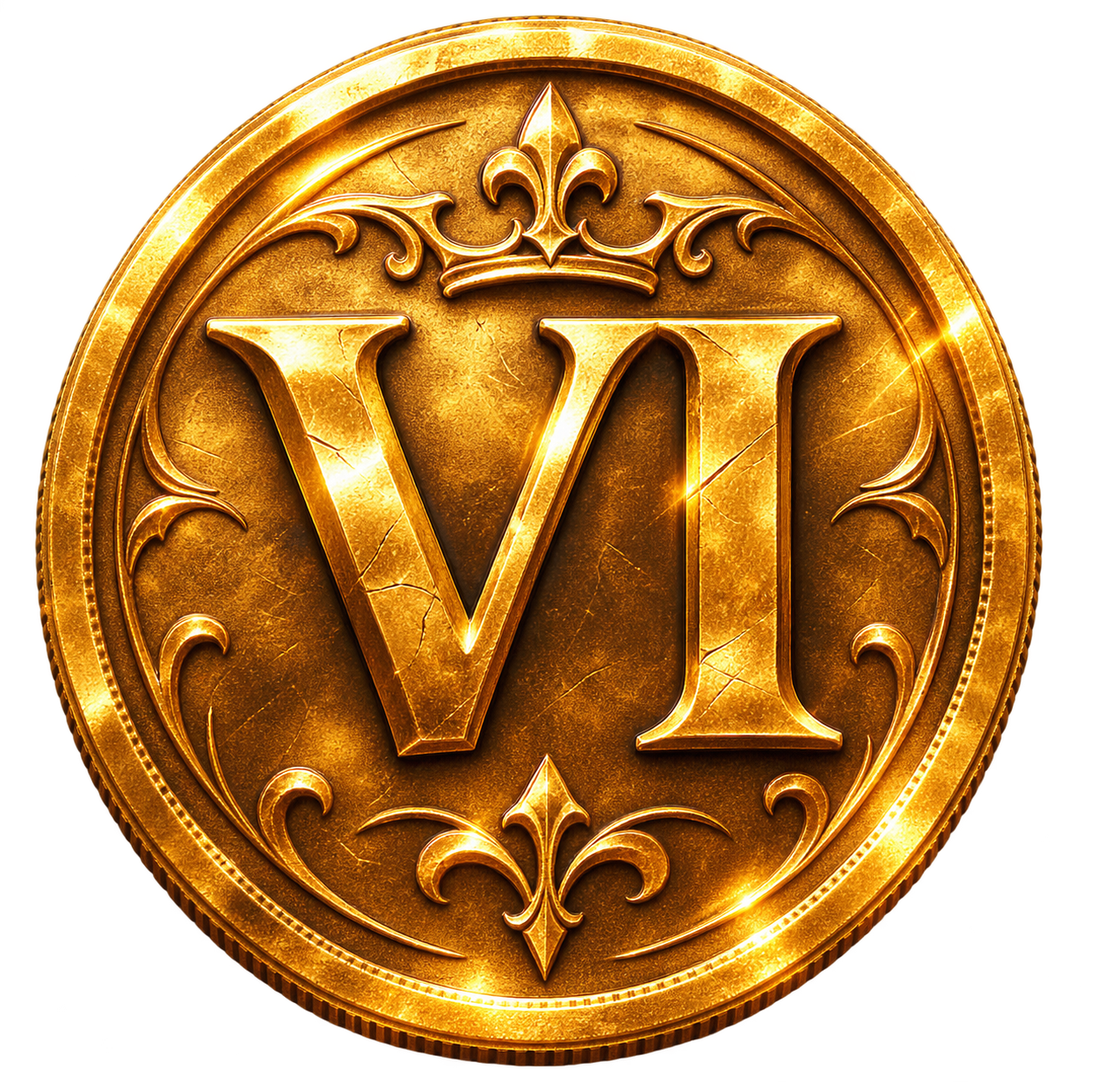
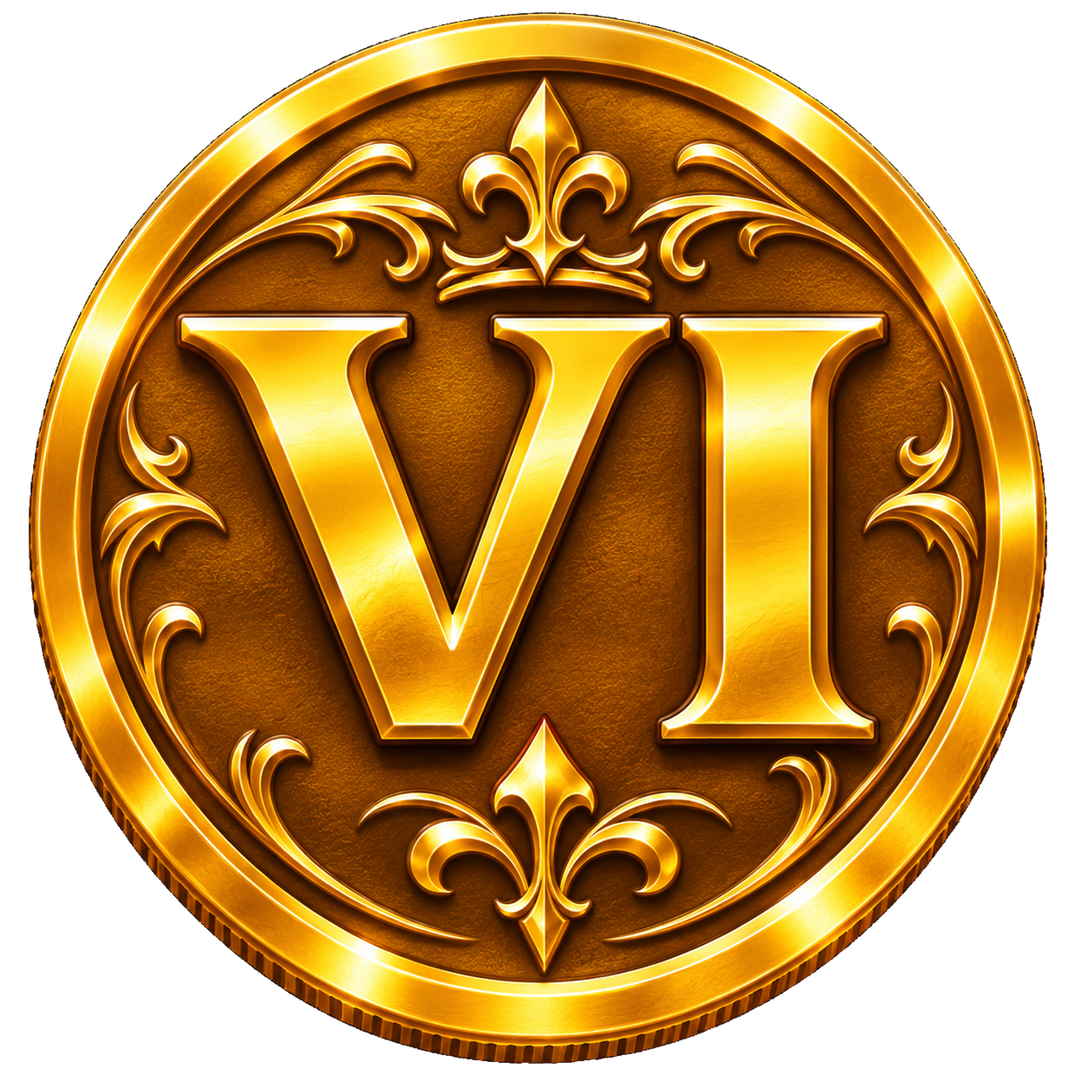
att

diff --git a/index.html b/index.html
@@ -27,6 +27,8 @@
   <link rel="stylesheet" href="redemption-flow.css">
   <link rel="stylesheet" href="brand.css">
   <link rel="stylesheet" href="forum.css">
+  <!-- Tema natalino temporário: remova este link e holiday.css ao fim da temporada. -->
+  <link rel="stylesheet" href="holiday.css">
 </head>
 <body class="catalog-home">
   <div class="app-shell">
@@ -46,7 +48,7 @@
       <div class="sidebar-login-area" id="sidebarLoginArea"><a class="twitch-login" id="twitchLogin" href="/auth/twitch/start"><span class="twitch-mark" aria-hidden="true">◉</span><span>Entrar com Twitch</span></a><span class="twitch-auth-feedback" id="twitchAuthFeedback" aria-live="polite"></span></div>
       <section class="sidebar-user-profile hidden" id="sidebarUserProfile" aria-label="Perfil da Twitch">
         <div class="sidebar-user-heading"><img id="sidebarUserAvatar" alt=""><span><button class="sidebar-user-open-profile" id="sidebarUserOpenProfile" type="button" aria-label="Abrir meu perfil"><strong id="sidebarUserName"></strong><span aria-hidden="true">↗</span></button></span></div>
-        <a class="vicoins-balance sidebar-vicoins" id="sidebarVicoinsLink" href="#lojinha" data-page="lojinha" title="Vicoins" aria-label="Vicoins: 0. Abrir lojinha"><img src="assets/vicoins-coin.png" alt=""><span id="sidebarVicoinsCount">0</span></a>
+        <a class="vicoins-balance sidebar-vicoins" id="sidebarVicoinsLink" href="#lojinha" data-page="lojinha" title="Vicoins" aria-label="Vicoins: 0. Abrir lojinha"><img src="assets/vicoins-coin.png?v=2" alt=""><span id="sidebarVicoinsCount">0</span></a>
         <span class="sidebar-user-role" id="sidebarUserRole"></span>
         <button class="sidebar-user-logout" id="sidebarUserLogout" type="button">Sair da conta</button>
       </section>
@@ -188,7 +190,7 @@
       </main>
       <main class="shop-page hidden" id="lojinha" aria-labelledby="shopHeading">
         <header class="shop-intro"><span class="eyebrow muted">RECOMPENSAS DA COMUNIDADE</span><h1 id="shopHeading">Lojinha</h1><p>Troque seus Vicoins por recompensas especiais do Vimessias Play.</p></header>
-        <div class="shop-wallet-row"><section class="shop-wallet" aria-label="Seu saldo de Vicoins"><img src="assets/vicoins-coin.png" alt="Moeda Vicoins"><div><span>SEU SALDO</span><strong id="shopVicoinsCount">0</strong><small>Vicoins</small></div></section><section class="shop-daily-claim" aria-label="Bônus diário de login"><span class="shop-daily-kicker">BÔNUS DE LOGIN</span><strong>+20 Vicoins</strong><p id="dailyVicoinsTimer" aria-live="polite">Entre com a Twitch para liberar</p><button type="button" id="claimDailyVicoins">Resgatar</button></section><section class="shop-vicoins-guide" aria-labelledby="shopVicoinsGuideHeading"><h2 id="shopVicoinsGuideHeading">Como ganhar Vicoins</h2><table><thead><tr><th>Ação</th><th>Ganho</th></tr></thead><tbody><tr><td>Favoritar um título <small>(uma vez por título)</small></td><td>+1</td></tr><tr><td>Avaliar um título <small>(uma vez por título)</small></td><td>+1</td></tr><tr><td>A cada R$ 5 em resgates pagos e aprovados</td><td>+20</td></tr></tbody></table></section></div>
+        <div class="shop-wallet-row"><section class="shop-wallet" aria-label="Seu saldo de Vicoins"><img src="assets/vicoins-coin.png?v=2" alt="Moeda Vicoins"><div><span>SEU SALDO</span><strong id="shopVicoinsCount">0</strong><small>Vicoins</small></div></section><section class="shop-daily-claim" aria-label="Bônus diário de login"><span class="shop-daily-kicker">BÔNUS DE LOGIN</span><strong>+20 Vicoins</strong><p id="dailyVicoinsTimer" aria-live="polite">Entre com a Twitch para liberar</p><button type="button" id="claimDailyVicoins">Resgatar</button></section><section class="shop-vicoins-guide" aria-labelledby="shopVicoinsGuideHeading"><h2 id="shopVicoinsGuideHeading">Como ganhar Vicoins</h2><table><thead><tr><th>Ação</th><th>Ganho</th></tr></thead><tbody><tr><td>Favoritar um título <small>(uma vez por título)</small></td><td>+1</td></tr><tr><td>Avaliar um título <small>(uma vez por título)</small></td><td>+1</td></tr><tr><td>A cada R$ 5 em resgates pagos e aprovados</td><td>+20</td></tr></tbody></table></section></div>
         <p class="shop-feedback" id="shopFeedback" aria-live="polite">Entre com a Twitch para consultar seu saldo e resgatar uma oferta.</p>
         <label class="shop-requested-title-label" for="shopRequestedTitle">Conteúdo que deseja resgatar <small>(opcional; será conferido pelo administrador)</small><input id="shopRequestedTitle" type="text" maxlength="150" placeholder="Digite o nome do filme ou da série"></label>
         <div class="shop-rewards" id="shopRewards"></div>
@@ -221,6 +223,7 @@
           <p class="admin-vicoins-adjustment-feedback" id="adminVicoinsAdjustmentFeedback" aria-live="polite"></p>
           <p class="admin-vicoins-adjustment-note">Sua conta administradora tem saldo ilimitado; não precisa receber ajustes.</p>
         </section>
+        <section class="admin-community-badges" aria-labelledby="adminCommunityBadgesHeading"><div><span class="eyebrow muted">PERFIL DA COMUNIDADE</span><h2 id="adminCommunityBadgesHeading">Insígnias da comunidade</h2><p>Crie insígnias com um símbolo e escolha quais usuários Twitch vão recebê-las. Você pode alterar os destinatários ou excluir uma insígnia.</p></div><form id="adminCommunityBadgeForm" class="admin-community-badge-form"><label>Nome da insígnia<input name="name" type="text" maxlength="48" placeholder="Ex.: Fã de carteirinha" required></label><label>Símbolo<input name="symbol" type="text" maxlength="24" placeholder="🏆" required></label><label>Quem recebe<select name="memberIds" id="adminCommunityBadgeRecipients" multiple size="5" aria-describedby="adminCommunityBadgeRecipientsHelp"></select><small id="adminCommunityBadgeRecipientsHelp">Use Ctrl ou Shift para selecionar várias pessoas. A seleção pode ser alterada depois.</small></label><button type="submit">Criar insígnia</button></form><p id="adminCommunityBadgesFeedback" class="admin-community-badges-feedback" aria-live="polite">Carregando usuários…</p><div class="admin-community-badges-list" id="adminCommunityBadgesList"></div></section>
         <section class="admin-promotion-manager admin-patreon-manager" aria-labelledby="adminPatreonHeading">
           <div class="admin-promotion-manager-heading"><div><span class="eyebrow muted">CATÁLOGO · TMDB</span><h2 id="adminPatreonHeading">Associações do Patreon</h2><p>Associe um post a um título específico usando o ID do TMDB. Também é possível bloquear uma associação automática incorreta.</p></div></div>
           <label>Buscar título no catálogo<input id="adminPatreonSearch" type="search" placeholder="Digite o nome de um filme ou série…" autocomplete="off"></label><div class="admin-promotion-search-results" id="adminPatreonSearchResults" role="listbox" aria-label="Resultados da busca TMDB"></div>
@@ -276,7 +279,7 @@
   </dialog>
   <dialog class="shop-more-banners-dialog" id="shopMoreBannersDialog" aria-labelledby="shopMoreBannersHeading"><div class="shop-more-banners-head"><div><span class="eyebrow muted">PERSONALIZE SEU PERFIL</span><h2 id="shopMoreBannersHeading">Confira mais banners</h2></div><button type="button" id="shopMoreBannersClose" aria-label="Fechar banners">×</button></div><p>Resgate com Vicoins ou equipe um banner que já está no seu perfil.</p><div class="shop-banner-grid" id="shopMoreBannersGrid" aria-live="polite"></div></dialog>
   <dialog class="community-member-dialog" id="communityMemberDialog" aria-labelledby="communityMemberName">
-    <div class="community-member-dialog-head"><div class="community-member-identity"><img id="communityMemberAvatar" alt=""><div><span class="eyebrow muted">PERFIL DA COMUNIDADE</span><h2 id="communityMemberName"></h2></div></div><a class="vicoins-balance dialog-vicoins" id="communityMemberVicoinsLink" href="#lojinha" data-page="lojinha" title="Vicoins" aria-label="Vicoins: 0. Abrir lojinha"><img src="assets/vicoins-coin.png" alt=""><span id="communityMemberVicoinsCount">0</span></a><button type="button" class="community-member-close" id="communityMemberClose" aria-label="Fechar perfil">×</button></div>
+    <div class="community-member-dialog-head"><div class="community-member-identity"><img id="communityMemberAvatar" alt=""><div class="community-member-name-block"><span class="eyebrow muted">PERFIL DA COMUNIDADE</span><h2 id="communityMemberName"></h2><div class="community-profile-badges" id="communityMemberBadges" aria-label="Insígnias do perfil" hidden></div></div></div><a class="vicoins-balance dialog-vicoins" id="communityMemberVicoinsLink" href="#lojinha" data-page="lojinha" title="Vicoins" aria-label="Vicoins: 0. Abrir lojinha"><img src="assets/vicoins-coin.png?v=2" alt=""><span id="communityMemberVicoinsCount">0</span></a><button type="button" class="community-member-close" id="communityMemberClose" aria-label="Fechar perfil">×</button></div>
     <section class="community-achievements" aria-labelledby="communityAchievementsHeading"><h3 id="communityAchievementsHeading">Insígnias</h3><div class="community-achievement-list" id="communityAchievementList" aria-live="polite"></div></section>
     <p class="community-member-feedback" id="communityMemberFeedback" aria-live="polite"></p>
     <section class="community-member-section"><div class="community-member-section-heading"><h3>Títulos que resgatei</h3><div class="community-member-carousel-controls"><button type="button" data-carousel-target="communityMemberRedemptions" data-carousel-direction="-1" aria-label="Ver resgates anteriores" disabled>‹</button><button type="button" data-carousel-target="communityMemberRedemptions" data-carousel-direction="1" aria-label="Ver mais resgates" disabled>›</button></div></div><div class="community-member-titles" id="communityMemberRedemptions"></div></section>
@@ -303,6 +306,7 @@
   <script src="shop-vicoins.js" defer></script>
   <script src="admin-vicoins.js" defer></script>
   <script src="admin-vicoins-adjustment.js" defer></script>
+  <script src="admin-community-badges.js" defer></script>
   <script src="admin-profile-banners.js" defer></script>
   <script src="admin-shop-banners.js" defer></script>
   <script src="admin-patreon.js" defer></script>

diff --git a/admin-community-badges.js b/admin-community-badges.js
@@ -1,0 +1,81 @@
+(() => {
+  const form = document.querySelector('#adminCommunityBadgeForm');
+  const recipients = document.querySelector('#adminCommunityBadgeRecipients');
+  const list = document.querySelector('#adminCommunityBadgesList');
+  const feedback = document.querySelector('#adminCommunityBadgesFeedback');
+  if (!form || !recipients || !list || !feedback) return;
+  const apiBases = location.protocol === 'file:' ? ['http://localhost:3002','http://localhost:3000'] : [''];
+  let badges = [];
+  let members = [];
+  const safe = value => String(value ?? '').replace(/[&<>"']/g,character => ({'&':'&amp;','<':'&lt;','>':'&gt;','"':'&quot;',"'":'&#39;'}[character]));
+  async function api(path,options = {}) {
+    let lastError;
+    for (const base of apiBases) {
+      try {
+        const response = await fetch(`${base}${path}`,{credentials:'same-origin',cache:'no-store',...options});
+        const data = await response.json().catch(() => ({}));
+        if (!response.ok) throw new Error(data.error || 'Não foi possível atualizar as insígnias.');
+        return data;
+      } catch (error) { if (!(error instanceof TypeError)) throw error; lastError = error; }
+    }
+    throw lastError || new Error('Não foi possível conectar ao servidor.');
+  }
+  function optionMarkup(selected = []) {
+    const selectedIds = new Set(selected.map(String));
+    return members.map(member => `<option value="${safe(member.id)}" ${selectedIds.has(String(member.id)) ? 'selected' : ''}>${safe(member.displayName)} (@${safe(member.login)})</option>`).join('');
+  }
+  function render() {
+    recipients.innerHTML = optionMarkup();
+    if (!badges.length) { list.innerHTML = '<p class="admin-community-badges-empty">Nenhuma insígnia cadastrada ainda.</p>'; return; }
+    list.innerHTML = badges.map(badge => `<article class="admin-community-badge-card" data-badge-card="${safe(badge.id)}"><div class="admin-community-badge-title"><span aria-hidden="true">${safe(badge.symbol)}</span><div><strong>${safe(badge.name)}</strong><small>${(badge.memberIds || []).length} ${(badge.memberIds || []).length === 1 ? 'pessoa recebeu' : 'pessoas receberam'}</small></div></div><label>Destinatários<select multiple size="5" data-badge-members="${safe(badge.id)}">${optionMarkup(badge.memberIds || [])}</select><small>Use Ctrl ou Shift para selecionar várias pessoas.</small></label><div class="admin-community-badge-actions"><button type="button" data-save-members="${safe(badge.id)}">Salvar destinatários</button><button type="button" class="is-danger" data-delete-badge="${safe(badge.id)}">Excluir insígnia</button></div></article>`).join('');
+  }
+  async function load() {
+    if (!window.CardapioAuth?.isAdmin()) { list.replaceChildren(); feedback.textContent = 'Área exclusiva do administrador.'; return; }
+    feedback.textContent = 'Carregando insígnias e usuários…';
+    try {
+      const data = await api('/api/admin/community-badges');
+      badges = Array.isArray(data.badges) ? data.badges : [];
+      members = Array.isArray(data.members) ? data.members : [];
+      render();
+      feedback.textContent = members.length ? '' : 'Peça para as pessoas entrarem no site com a Twitch para aparecerem nesta lista.';
+    } catch (error) { feedback.textContent = error.message || 'Não foi possível carregar as insígnias.'; }
+  }
+  form.addEventListener('submit',async event => {
+    event.preventDefault();
+    if (!window.CardapioAuth?.isAdmin()) return;
+    const values = new FormData(form);
+    const name = String(values.get('name') || '').trim();
+    const symbol = String(values.get('symbol') || '').trim();
+    const memberIds = [...recipients.selectedOptions].map(option => option.value);
+    const submit = form.querySelector('[type="submit"]');
+    submit.disabled = true;
+    feedback.textContent = 'Criando insígnia…';
+    try {
+      const data = await api('/api/admin/community-badges',{method:'POST',headers:{'content-type':'application/json'},body:JSON.stringify({name,symbol,memberIds})});
+      badges = data.badges || badges;
+      form.reset();
+      render();
+      feedback.textContent = 'Insígnia criada e atribuída às pessoas selecionadas.';
+    } catch (error) { feedback.textContent = error.message || 'Não foi possível criar a insígnia.'; }
+    finally { submit.disabled = false; }
+  });
+  list.addEventListener('click',async event => {
+    const saveButton = event.target.closest('[data-save-members]');
+    const deleteButton = event.target.closest('[data-delete-badge]');
+    if (!saveButton && !deleteButton) return;
+    const id = (saveButton || deleteButton).dataset[saveButton ? 'saveMembers' : 'deleteBadge'];
+    if (deleteButton && !window.confirm('Excluir esta insígnia e removê-la dos perfis que a receberam?')) return;
+    const card = list.querySelector(`[data-badge-card="${id}"]`);
+    const button = saveButton || deleteButton;
+    button.disabled = true;
+    feedback.textContent = saveButton ? 'Salvando destinatários…' : 'Excluindo insígnia…';
+    try {
+      const data = await api('/api/admin/community-badges',{method:deleteButton ? 'DELETE' : 'PUT',headers:{'content-type':'application/json'},body:JSON.stringify(deleteButton ? {id} : {id,memberIds:[...card.querySelector(`[data-badge-members="${CSS.escape(id)}"]`).selectedOptions].map(option => option.value)})});
+      badges = data.badges || [];
+      render();
+      feedback.textContent = deleteButton ? 'Insígnia excluída dos perfis.' : 'Destinatários atualizados.';
+    } catch (error) { feedback.textContent = error.message || 'Não foi possível atualizar a insígnia.'; button.disabled = false; }
+  });
+  window.addEventListener('cardapio:auth-updated',load);
+  window.CardapioAuth?.ready?.then(load);
+})();

diff --git a/shop.css b/shop.css
@@ -167,3 +167,27 @@
 @media(max-width:520px){.admin-shop-banners{padding:13px}.admin-shop-banner-form{grid-template-columns:1fr}.admin-shop-banner-form label:first-child,.admin-shop-banner-form label:nth-child(2),.admin-shop-banner-form label:nth-child(3){grid-column:1;grid-row:auto}.admin-shop-banner-item{grid-template-columns:1fr auto}.admin-shop-banner-item>img{grid-column:1/-1;max-width:100%}}
 
 .shop-reward-admin-cost{display:flex;align-items:center;gap:6px;margin:0 0 10px;padding:8px;border:1px solid #463252;border-radius:7px;background:#120e17;color:#cbbbd5;font-size:10px}.shop-reward-admin-cost input{width:76px;min-height:30px;padding:4px 6px;border:1px solid #574163;border-radius:5px;background:#0b090d;color:#fff;font:inherit}.shop-reward-admin-cost button{margin-left:auto;padding:6px 10px;border:1px solid #8553a3;border-radius:5px;background:#321a43;color:#f5e9ff;font-weight:700;cursor:pointer}
+.admin-community-badges{margin:0 0 28px;padding:18px;border:1px solid #493554;border-radius:13px;background:linear-gradient(145deg,#17121c,#0e0c12 75%);box-shadow:0 12px 30px #0003}
+.admin-community-badges h2{margin:5px 0;color:#f5eff8;font:600 23px var(--serif)}
+.admin-community-badges>div>p{margin:0;color:#b5adbb;font-size:12px;line-height:1.5}
+.admin-community-badge-form{display:grid;grid-template-columns:minmax(180px,1fr) 110px minmax(230px,1.5fr) auto;align-items:end;gap:10px;margin-top:16px}
+.admin-community-badge-form label,.admin-community-badge-card>label{display:grid;gap:6px;color:#ded5e4;font-size:11px;font-weight:700}
+.admin-community-badge-form input,.admin-community-badge-form select,.admin-community-badge-card select{width:100%;min-height:39px;padding:7px 10px;border:1px solid #493853;border-radius:7px;background:#0c0a10;color:#f2edf6;font:inherit;font-size:12px}
+.admin-community-badge-form select[multiple],.admin-community-badge-card select[multiple]{min-height:92px}
+.admin-community-badge-form small,.admin-community-badge-card label small{color:#a99eae;font-size:9px;line-height:1.4}
+.admin-community-badge-form button,.admin-community-badge-actions button{min-height:39px;padding:0 14px;border:1px solid #a358d3;border-radius:7px;background:linear-gradient(110deg,#7524a8,#4b1d6b);color:#fff;font-size:11px;font-weight:700;cursor:pointer;white-space:nowrap}
+.admin-community-badge-form button:disabled,.admin-community-badge-actions button:disabled{opacity:.6;cursor:wait}
+.admin-community-badges-feedback{min-height:18px;margin:12px 0 0;color:#d9b6f2;font-size:12px;line-height:1.5}
+.admin-community-badges-list{display:grid;grid-template-columns:repeat(auto-fit,minmax(250px,1fr));gap:10px;margin-top:10px}
+.admin-community-badge-card{display:grid;gap:12px;padding:12px;border:1px solid #372a40;border-radius:9px;background:#100d14}
+.admin-community-badge-title{display:flex;align-items:center;gap:10px}.admin-community-badge-title>span{display:grid;width:42px;height:42px;place-items:center;border:1px solid #775291;border-radius:50%;background:#281832;font-size:24px}.admin-community-badge-title>div{display:grid;gap:3px}.admin-community-badge-title strong{color:#f2eafa;font-size:13px}.admin-community-badge-title small{color:#a99eae;font-size:10px}
+.admin-community-badge-actions{display:flex;flex-wrap:wrap;gap:8px}.admin-community-badge-actions button.is-danger{border-color:#704353;background:#301a23;color:#f2c4cf}
+.admin-community-badges-empty{margin:0;padding:8px 2px;color:#a99eae;font-size:11px}
+.community-member-name-block{min-width:0}.community-member-dialog-head .community-member-identity h2{margin-top:0}
+.community-profile-badges{display:flex;align-items:center;gap:5px;min-height:25px;margin-top:5px}.community-profile-badges[hidden]{display:none}
+.community-profile-badge{position:relative;display:grid;width:25px;height:25px;flex:none;place-items:center;border:1px solid #65447a;border-radius:7px;background:linear-gradient(145deg,#34203f,#17111e);color:#f3d5ff;font-size:15px;line-height:1;cursor:help;box-shadow:0 2px 8px #0004}
+.community-profile-badge:focus-visible{outline:2px solid #d4a0f2;outline-offset:2px}
+.community-profile-badge:after{position:absolute;z-index:10;left:50%;bottom:calc(100% + 7px);width:max-content;max-width:min(220px,70vw);padding:6px 9px;border:1px solid #694b7a;border-radius:6px;background:#100d14;color:#f4eaf8;content:attr(data-badge-name);font:600 10px/1.3 "DM Sans",sans-serif;white-space:normal;opacity:0;visibility:hidden;transform:translate(-50%,4px);transition:opacity .14s,transform .14s,visibility .14s;pointer-events:none;box-shadow:0 5px 20px #0009}
+.community-profile-badge:hover:after,.community-profile-badge:focus-visible:after{opacity:1;visibility:visible;transform:translate(-50%,0)}
+@media(max-width:900px){.admin-community-badge-form{grid-template-columns:repeat(2,minmax(0,1fr))}.admin-community-badge-form button{grid-column:1/-1}}
+@media(max-width:520px){.admin-community-badges{padding:13px}.admin-community-badge-form{grid-template-columns:1fr}.admin-community-badge-form button{grid-column:auto}}

diff --git a/shop-vicoins.js b/shop-vicoins.js
@@ -109,7 +109,7 @@
   function renderRewards() {
     const authenticated = window.CardapioAuth?.isAuthenticated();
     const isAdmin = Boolean(window.CardapioAuth?.isAdmin());
-    rewardsRoot.innerHTML = rewards.map(reward => `<article class="shop-reward-card"><span class="shop-reward-kicker">VALE DE CONTEÚDO</span><h2>Resgate até <strong>${safe(reward.contentLimit.toLocaleString('pt-BR',{style:'currency',currency:'BRL'}))}</strong></h2><p>Use Vicoins para solicitar um resgate de conteúdo neste valor ou menos.</p><div class="shop-reward-cost"><img src="assets/vicoins-coin.png" alt=""><strong>${reward.coinCost.toLocaleString('pt-BR')}</strong><span>Vicoins</span></div>${isAdmin ? `<label class="shop-reward-admin-cost">Alterar custo <input type="number" min="1" max="1000000" step="1" value="${reward.coinCost}" data-reward-cost="${safe(reward.id)}"><span>Vicoins</span><button type="button" data-save-reward="${safe(reward.id)}">Salvar</button></label>` : ''}<button type="button" data-reward-id="${safe(reward.id)}" ${authenticated && balance < reward.coinCost ? 'disabled' : ''}>${!authenticated ? 'Entrar para resgatar' : balance < reward.coinCost ? 'Saldo insuficiente' : 'Resgatar'}</button></article>`).join('');
+    rewardsRoot.innerHTML = rewards.map(reward => `<article class="shop-reward-card"><span class="shop-reward-kicker">VALE DE CONTEÚDO</span><h2>Resgate até <strong>${safe(reward.contentLimit.toLocaleString('pt-BR',{style:'currency',currency:'BRL'}))}</strong></h2><p>Use Vicoins para solicitar um resgate de conteúdo neste valor ou menos.</p><div class="shop-reward-cost"><img src="assets/vicoins-coin.png?v=2" alt=""><strong>${reward.coinCost.toLocaleString('pt-BR')}</strong><span>Vicoins</span></div>${isAdmin ? `<label class="shop-reward-admin-cost">Alterar custo <input type="number" min="1" max="1000000" step="1" value="${reward.coinCost}" data-reward-cost="${safe(reward.id)}"><span>Vicoins</span><button type="button" data-save-reward="${safe(reward.id)}">Salvar</button></label>` : ''}<button type="button" data-reward-id="${safe(reward.id)}" ${authenticated && balance < reward.coinCost ? 'disabled' : ''}>${!authenticated ? 'Entrar para resgatar' : balance < reward.coinCost ? 'Saldo insuficiente' : 'Resgatar'}</button></article>`).join('');
     rewardsRoot.querySelectorAll('[data-reward-id]').forEach(button => button.addEventListener('click',() => submitOrder(button)));
     rewardsRoot.querySelectorAll('[data-save-reward]').forEach(button => button.addEventListener('click',async () => {
       if (!window.CardapioAuth?.isAdmin()) return;
@@ -132,7 +132,7 @@
     const disabled = !authenticated || equipped || Boolean(pendingOrder) || (!hasBanner && !livepix && balance < Number(banner.coinCost));
     const cost = livepix
       ? `<div class="shop-banner-price"><strong>${Number(banner.amount).toLocaleString('pt-BR',{style:'currency',currency:'BRL'})}</strong><span>via LivePix</span></div>`
-      : `<div class="shop-reward-cost"><img src="assets/vicoins-coin.png" alt=""><strong>${Number(banner.coinCost).toLocaleString('pt-BR')}</strong><span>Vicoins</span></div>`;
+      : `<div class="shop-reward-cost"><img src="assets/vicoins-coin.png?v=2" alt=""><strong>${Number(banner.coinCost).toLocaleString('pt-BR')}</strong><span>Vicoins</span></div>`;
     let status = '';
     if (livepix && pendingOrder) status = `<p class="shop-banner-order-feedback">Pedido pendente. <a href="${safe(pendingOrder.paymentUrl || 'https://livepix.gg/vimessias')}" target="_blank" rel="noopener noreferrer">Abrir LivePix ↗</a></p>`;
     else if (livepix && hasBanner) status = '<p class="shop-banner-order-feedback">Banner liberado no perfil.</p>';

diff --git a/community-members.js b/community-members.js
@@ -6,6 +6,7 @@
   const close = document.querySelector('#communityMemberClose');
   const avatar = document.querySelector('#communityMemberAvatar');
   const name = document.querySelector('#communityMemberName');
+  const profileBadges = document.querySelector('#communityMemberBadges');
   const feedback = document.querySelector('#communityMemberFeedback');
   const redemptions = document.querySelector('#communityMemberRedemptions');
   const favorites = document.querySelector('#communityMemberFavorites');
@@ -45,6 +46,12 @@
     }
     dialogHead.style.setProperty('--community-profile-banner',`url("${imageUrl}")`);
     dialogHead.classList.add('has-profile-banner');
+  }
+
+  function renderProfileBadges(badges = []) {
+    const items = Array.isArray(badges) ? badges : [];
+    profileBadges.hidden = !items.length;
+    profileBadges.innerHTML = items.map(badge => `<span class="community-profile-badge" role="img" tabindex="0" title="${safe(badge.name)}" aria-label="Insígnia: ${safe(badge.name)}" data-badge-name="${safe(badge.name)}">${safe(badge.symbol)}</span>`).join('');
   }
 
   function renderAchievements(achievements = {}) {
@@ -130,6 +137,7 @@
     setVicoins(0,true);
     feedback.textContent = '';
     renderAchievements();
+    renderProfileBadges([]);
     redemptions.replaceChildren();
     favorites.replaceChildren();
     ratedTitles.replaceChildren();
@@ -143,6 +151,7 @@
       name.textContent = profile.displayName || profile.login || 'Perfil Twitch';
       setVicoins(profile.vicoins,true,profile.vicoinsInfinite);
       setProfileBanner(profile.banner);
+      renderProfileBadges(data.badges || []);
       renderAchievements(data.achievements || {});
       if (profile.profileImageUrl) {
         avatar.src = profile.profileImageUrl;
@@ -178,7 +187,7 @@
     target.innerHTML = items.map((member,index) => {
       const avatarMarkup = member.profileImageUrl ? `<img src="${safe(member.profileImageUrl)}" alt="" loading="lazy">` : '<span class="community-ranking-avatar-fallback" aria-hidden="true">✦</span>';
       const value = type === 'vicoins'
-        ? `<span class="community-ranking-value is-vicoins"><img src="assets/vicoins-coin.png" alt=""><strong>${Number(member.balance || 0).toLocaleString('pt-BR')}</strong></span>`
+        ? `<span class="community-ranking-value is-vicoins"><img src="assets/vicoins-coin.png?v=2" alt=""><strong>${Number(member.balance || 0).toLocaleString('pt-BR')}</strong></span>`
         : `<span class="community-ranking-value"><strong>${Number(member.totalValue || 0).toLocaleString('pt-BR',{style:'currency',currency:'BRL'})}</strong><small>${Number(member.redemptionCount || 0)} ${Number(member.redemptionCount) === 1 ? 'resgate' : 'resgates'}</small></span>`;
       return `<li class="community-ranking-row"><span class="community-ranking-position">${index + 1}</span><button type="button" class="community-ranking-profile" data-profile-id="${safe(member.id)}">${avatarMarkup}<span>${safe(member.displayName || 'Usuário Twitch')}</span></button>${value}</li>`;
     }).join('');

diff --git a/holiday.css b/holiday.css
@@ -1,0 +1,15 @@
+/* Camada sazonal temporária. Remova a referência a holiday.css no index.html para desfazer toda a estética de Natal. */
+.catalog-home{background:radial-gradient(ellipse at 93% 4%,#28433220,transparent 28%),radial-gradient(ellipse at 78% 5%,#21102f33,transparent 34%),#09080d}
+.catalog-home:before{position:fixed;z-index:100;top:0;left:0;width:100%;height:2px;background:linear-gradient(90deg,#456b4c,#c9ad71 20%,#8b3544 34%,#44634a 53%,#c9ad71 72%,#753e52 88%,#456b4c);content:"";opacity:.8;pointer-events:none}
+.home-hero{border-color:#5c664d;box-shadow:0 10px 35px #0005,0 0 0 1px #b5a16a19,inset 0 0 48px #14301d24}
+.home-hero:before{position:absolute;z-index:2;top:13px;right:15px;padding:5px 9px;border:1px solid #c5ab723d;border-radius:20px;background:#100f0bb3;color:#e2d0a2;content:"✦  BOAS FESTAS  ✦";font:600 8px/1 var(--sans);letter-spacing:.13em;text-shadow:0 0 10px #bba36b66;pointer-events:none}
+.home-hero:after{position:absolute;z-index:2;top:0;left:0;width:100%;height:7px;background:radial-gradient(circle at 10px 1px,#d2b77a 0 1.5px,transparent 2px) 0 0/54px 7px repeat-x,linear-gradient(90deg,#42634a55,#c3a96577,#7b3a4a66,#42634a55);content:"";opacity:.72;pointer-events:none}
+.feature-strip,.rail-card,.home-promo-teaser{border-color:#4e594633}
+.feature-card>span svg{stroke:#d8c99b;filter:drop-shadow(0 0 7px #c9b27033)}
+.feature-arrow,.home-promo-kicker,.home-promo-link span{color:#d8c08a}
+.rail-heading .rail-icon{color:#d2bd83}
+.rail-card{box-shadow:0 9px 26px #0003,0 1px 0 #b7a5660a inset}
+.community-member-dialog,.shop-reward-card,.admin-page .admin-redemption-card{border-color:#4a5b46}
+.community-member-dialog::backdrop{background:#06100bd9}
+button:focus-visible,a:focus-visible,input:focus-visible,select:focus-visible{outline-color:#cbb575}
+@media(max-width:760px){.home-hero:before{top:9px;right:9px;font-size:7px}.home-hero:after{height:5px}}
